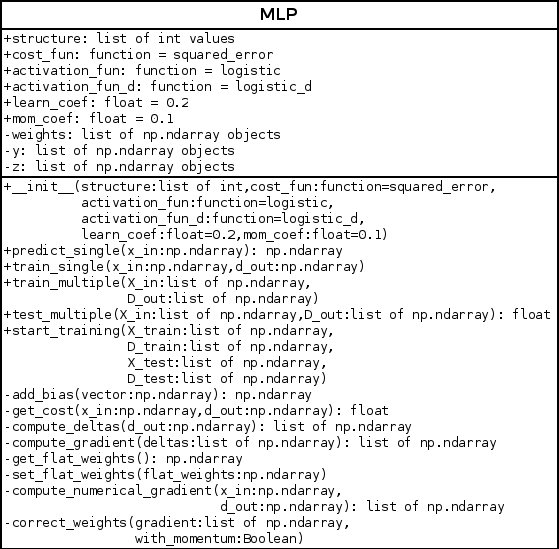
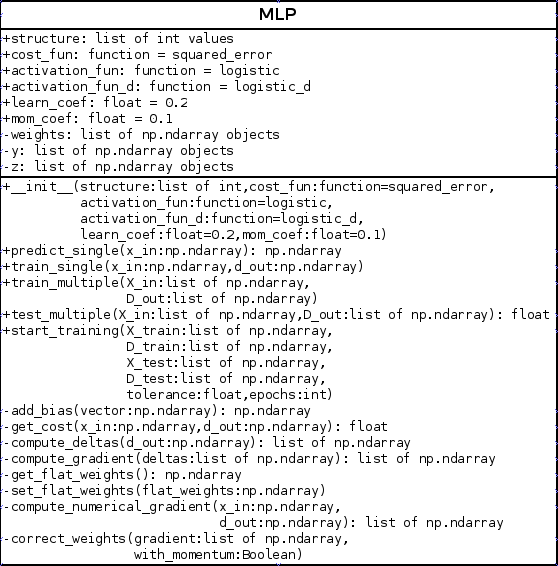
Implementacja sieci neuronowej skonczona

diff --git a/inz.tex b/inz.tex
@@ -181,19 +181,59 @@ Moduł MLP zaimplementowano wykorzystując język Python. Do wykonywania oblicze
 Moduł MLP składa się z jednej klasy reprezentującej całą sieć neuronową - MLP. Zdecydowano o takiej konstrukcji, ponieważ wagi sieci przechowywane są w tablicach numpy.ndarray. Przejście sygnału przez sieć sprowadza się do wykonywania odpowiednich działań na macierzach. Utworzenie oddzielnej klasy odpowiadającej za Neuron i stworzenie sieci z obiektów klasy Neuron, skutkowałoby koniecznością wywoływania odpowiednich funkcji klasy Neuron dla każdego obiektu. Znacznie spowolniłoby to działanie całego programu. Diagram UML klasy MLP przedstawiono na rysunku \ref{fig:mlp01}.
 
 \begin{figure}
-\begin{center}
-\includegraphics[width=0.9\textwidth]{mlp01.png}
-\end{center}
+\includegraphics[width=\textwidth]{mlp01.png}
 \caption{Diagram UML klasy MLP}
 \label{fig:mlp01}
 \end{figure}
 
+\pagebreak
+
 \section{Interfejs programisty}
 \label{Sec:MLPAPI}
-z uzytkowego punktu widzenia:
-- konstruktor - trzeba podac strukture w formie listy, reszta moze byc domyslna
-- pozostale parametry: funkcja kosztów (domyslnie blad srednipokwadratowy?), funkcja aktywacji (domyslnie logistyczna), funkcja aktywacji pochodna, wspolczynnik uczenia, wspolczynnik momentu
 
+Aby skorzystać z klasy MLP wystarczy znajomość jedynie kilku metod. Proces korzystania z modułu MLP można podzielić na trzy etapy:
+\begin{enumerate}
+\item Stworzenie sieci o wybranej architekturze
+
+Do stworzenia sieci o wybranej architekturze należy wykorzystać konstruktor klasy MLP. Jedynym niezbędnym parametrem jest pożądana struktura sieci, podawana w formie listy całkowitych liczb dodatnich, np. $[2, 3, 1]$ - sieć o dwóch wejściach, 3 neuronach w warstwie ukrytej i jednym neuronie wyjściowym. Pozostałe, opcjonalne parametry wraz z wartościami domyślnymi:
+
+\begin{itemize}
+\item cost\_fun (funkcja) - funkcja kosztu służąca do obliczenia wartości błędu. Domyślnie jest to błąd kwadratowy przemnożony przez 0.5.
+\item activation\_fun (funkcja) - funkcja aktywacji. Domyślnie funkcja logistyczna - sigmoidalna funkcja unipolarna.
+\item activation\_fun\_d (funkcja) - pochodna funkcji aktywacji. Domyślnie pochodna unipolarnej funkcji sigmoidalnej.
+\item learn\_coef (float) - współczynnik uczenia. Wartość domyślna: 0.2.
+\item mom\_coef (float) - współczynnik momentu. Wartość domyślna: 0.1
+\end{itemize}
+
+\item Przeprowadzenie procesu uczenia
+
+Gdy obiekt klasy MLP jest już stworzony, można rozpocząć proces uczenia sieci. Ogranicza się to do wywołania metody start\_training. Niezbędnymi parametrami są zbiory danych: X\_train (wejściowe dane uczące), Y\_train (pożądane wyjścia odpowiadające danym podanym jako argument X\_train), X\_test (wejściowe dane testowe), Y\_test (pożądane wyjścia odpowiadające danym podanym jako argument X\_train). Opcjonalne parametry to epochs (maksymalna liczba epok\footnote{Epoka w procesie uczenia sieci neuronowych to przetworzenie całego ciągu danych uczących.}) i tolerance (gdy średni błąd spadnie poniżej tej wartości nastąpi zakończenie procesu uczenia).
+
+\item Wykorzystywanie nauczonej sieci
+W celu otrzymania odpowiedzi sieci na wektor danych wejściowych należy trzeba posłużyć się metodą predict\_single, jako argument podając jeden wektor danych wejściowych. Zwrócony zostanie wektor wyjściowy wygenerowany przez sieć.
+\end{enumerate}
+
+\pagebreak
+
+Przykładowe zastosowanie modułu MLP do rozwiązania problemu XOR:
+\begin{verbatim}
+# Inicjalizacja danych wejściowych i wyjściowych
+in = np.array(([1, 1], [1, 0], [0, 1], [0, 0]), dtype=float)
+out = np.array(([0], [1], [1], [0]), dtype=float)
+
+# Utworzenie sieci o strukturze: 2 wejścia, 3 neurony w warstwie 
+# ukrytej, 1 neuron wyjściowy. Pozostałe parametry domyślne.
+net = MLP([2, 3, 1])
+
+# Rozpoczęcie treningu dla danych problemu XOR. Dane treningowe 
+# identyczne jak dane testowe. Liczba epok 10000, gdy wartość
+# błędu spadnie poniżej 0.001, nastąpi zakończenie procesu uczenia.
+net.start_training(in, out, in, out, epochs=10000, tolerance=0.001)
+
+# Wykorzystanie nauczonej sieci do predykcji
+for x in in:
+    net.predict_single(x)
+\end{verbatim}
 
 
 
